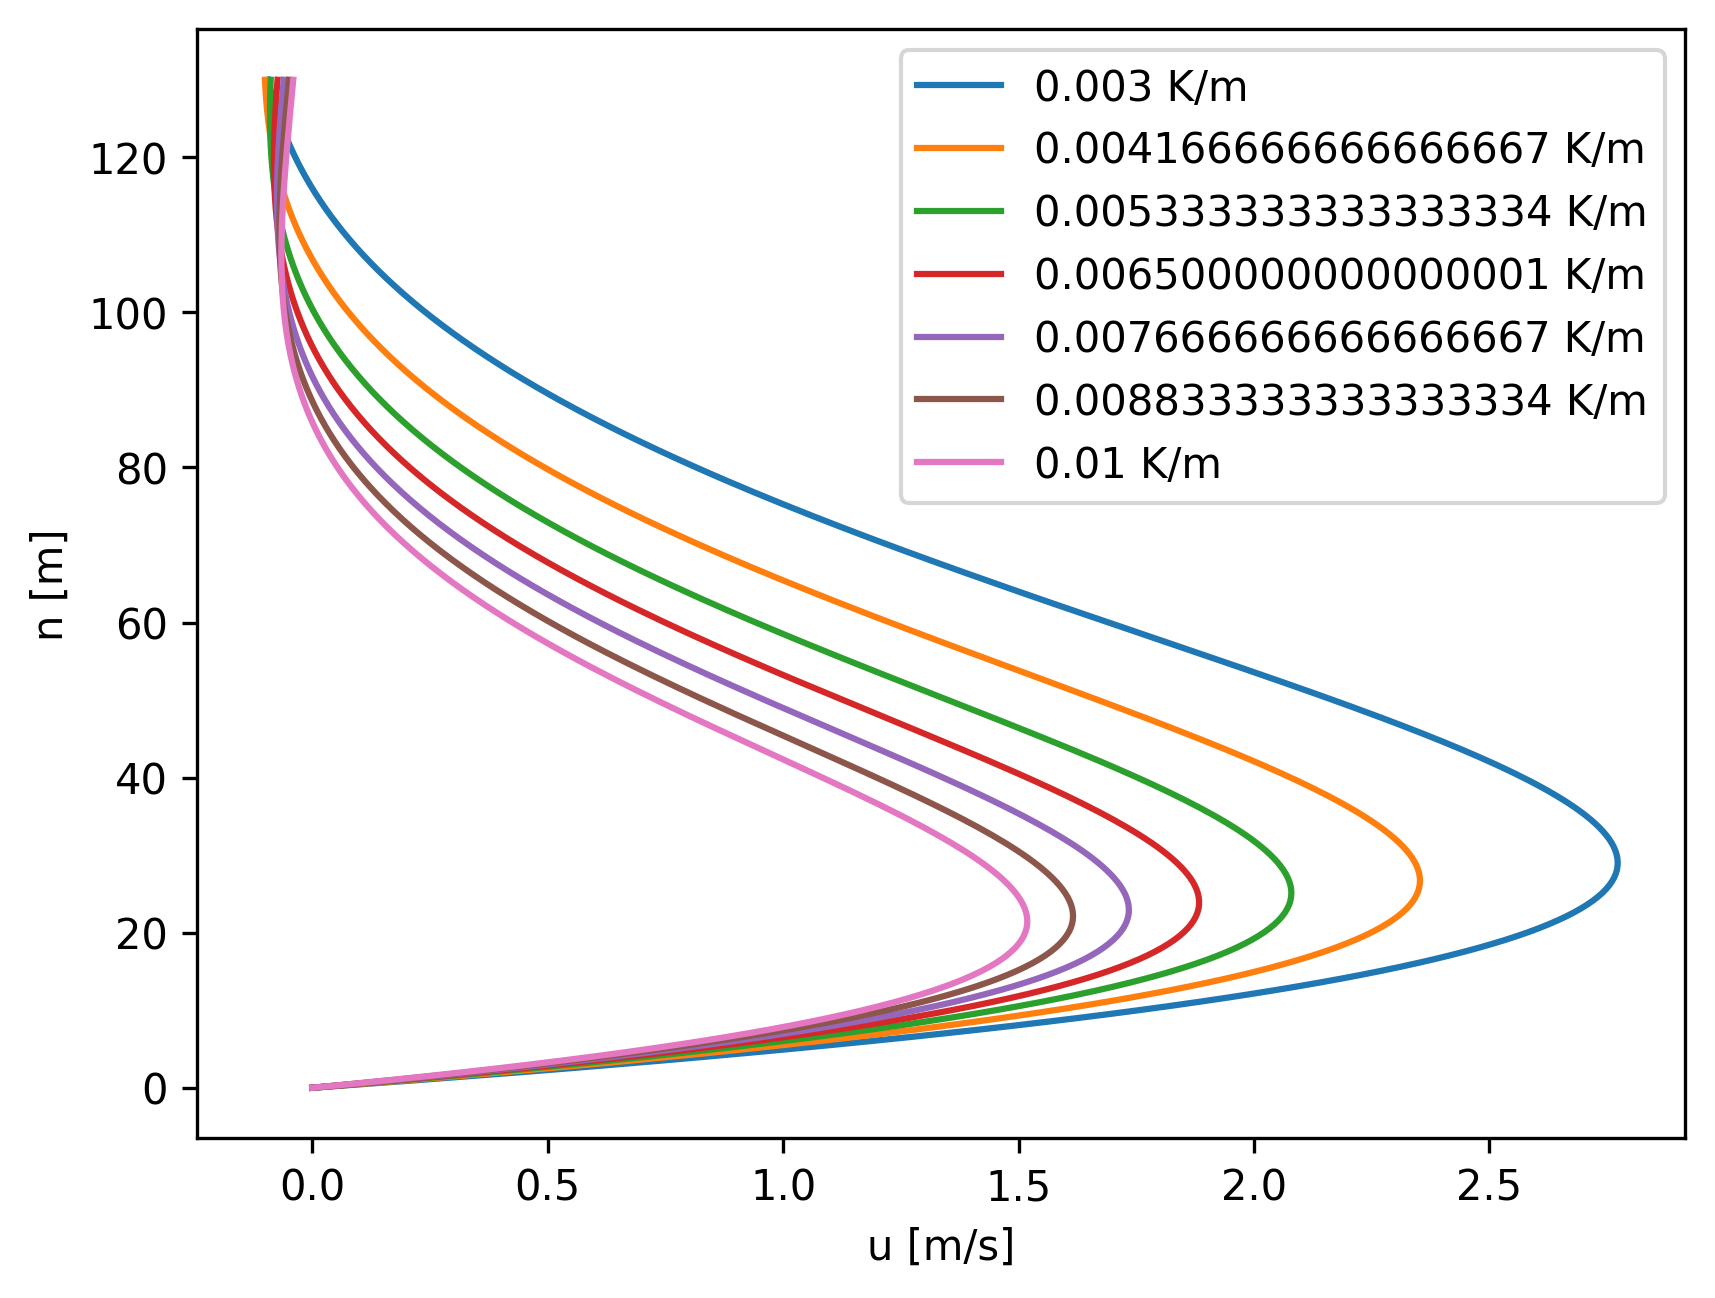
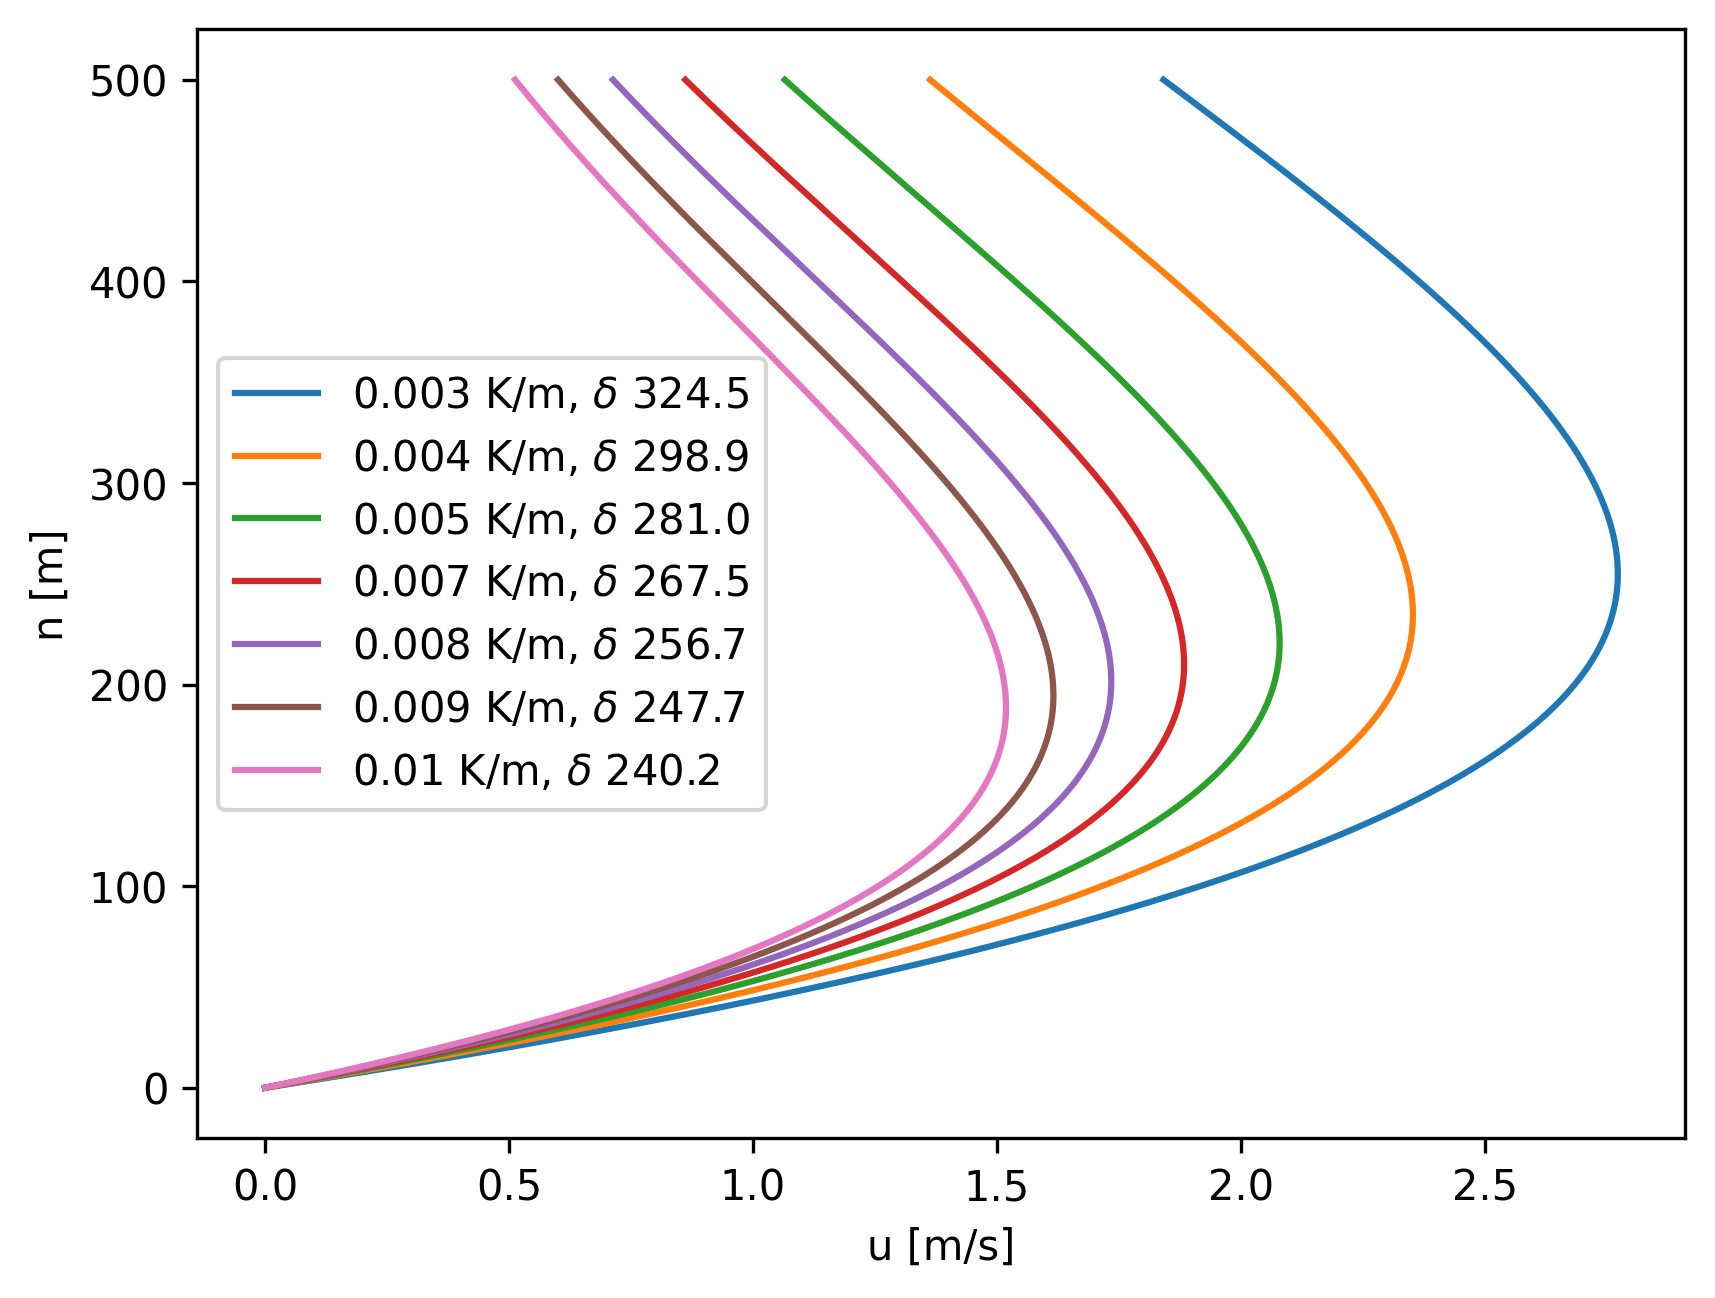
fix error using function u_sens

diff --git a/prandlt/prandtl.py b/prandlt/prandtl.py
@@ -137,7 +137,7 @@ U_fig.savefig("sens_U.png", bbox_inches='tight', dpi=300)
 plt.figure(4)
 alphas = [0.1, 10, 30, 45, 60, 75, 90]
 for i, angle in enumerate(alphas):
-    plt.plot(u_sens(n, par[0], angle, gamma, par[1]), n, label=str(angle)+" deg")
+    plt.plot(u_sens(n, par[0], angle, gamma, par[1]), n, label=str(angle)+r" deg, $\delta$ "+str(round(delta_sens(angle, gamma, par[1]), 1)))
 
 plt.legend()
 plt.xlabel('u [m/s]')
@@ -148,8 +148,9 @@ plt.savefig("sens_U_slope.png", bbox_inches='tight', dpi=300)
 #####################################
 plt.figure(5)
 gammas = np.linspace(0.003, 0.01, 7)
+n_2 = np.linspace(0,500, 500)
 for i, gamma in enumerate(gammas):
-    plt.plot(u_sens(n, par[0], angle, gamma, par[1]), n, label=str(gamma)+" K/m")
+    plt.plot(u_sens(n_2, par[0], alpha, gamma, par[1]), n_2, label=str(round(gamma,3))+r" K/m, $\delta$ "+str(round(delta_sens(alpha, gamma, par[1]), 1)))
 
 plt.legend()
 plt.xlabel('u [m/s]')
@@ -160,8 +161,9 @@ plt.savefig("sens_U_gamma.png", bbox_inches='tight', dpi=300)
 #####################################
 plt.figure(6)
 thetas = np.linspace(0, 10, 7)
-for i, theta in enumerate(thetas):
-    plt.plot(u_sens(n, par[0], angle, gamma, theta), n, label=str(theta)+" K")
+n_2 = np.linspace(0,500, 500)
+for i, thetai in enumerate(thetas):
+    plt.plot(u_sens(n_2, thetai, alpha, gamma, par[1]), n_2, label=str(round(thetai, 2))+r" K, $\delta$ "+str(round(delta_sens(alpha, gamma, par[1]), 1)))
 
 plt.legend()
 plt.xlabel('u [m/s]')
